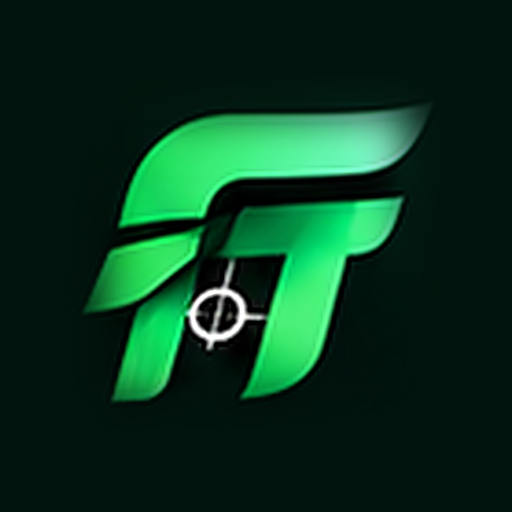
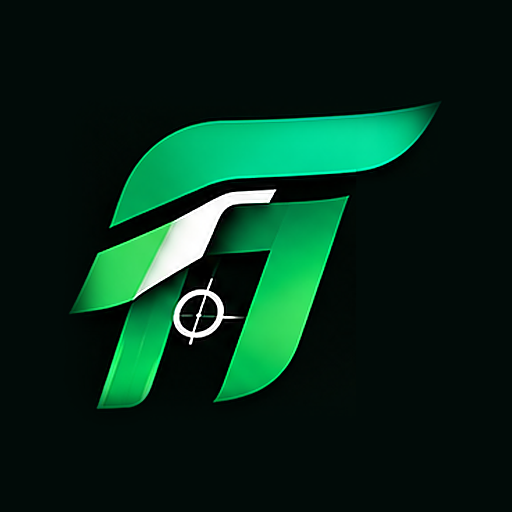
Add files via upload

Changed region(s): [[0.125, 0.1875, 0.875, 0.8125]]

diff --git a/docs/index.html b/docs/index.html
@@ -1,6 +1,6 @@
 <!doctype html><html lang="fr"><head><meta charset="utf-8">
 <meta name="viewport" content="width=device-width,initial-scale=1,viewport-fit=cover">
-<meta name="theme-color" content="#0B0F0E"><link rel="manifest" href="manifest.json">
+<meta name="theme-color" content="#020C08"><link rel="manifest" href="manifest.json">
 <link rel="icon" href="assets/icon-192.png"><link rel="apple-touch-icon" href="assets/icon-192.png"><title>FootTime</title>
 <style>
 :root{--g:#16A34A;--gd:#0F6B38;--k:#0B0F0E;--c:#F7F8F5;--gr:#9CA3AF}
@@ -46,7 +46,25 @@ label{display:block;margin-top:8px;font-size:14px;font-weight:600}
 details{background:#fff;border:1px solid #e5e7eb;border-radius:12px;padding:12px 14px;margin-bottom:8px}summary{font-weight:600;cursor:pointer}
 details p{margin-top:8px;color:#6b7280;font-size:14px;line-height:1.5}
 .final{background:var(--k);color:#fff;border-radius:18px;padding:20px;margin:24px 0 4px;text-align:center}.final p{color:#cbd5d1;margin:8px 0 4px;font-size:14px}
+#splash{position:fixed;inset:0;z-index:99;background:#020C08;display:flex;align-items:center;justify-content:center;flex-direction:column;transition:opacity .5s ease,visibility .5s}
+#splash.out{opacity:0;visibility:hidden}
+.sp{position:relative;overflow:hidden;width:min(74vw,330px)}
+.sp img{width:100%;display:block;animation:pop .8s cubic-bezier(.2,.8,.2,1) both}
+.sh{position:absolute;inset:0;background:linear-gradient(105deg,transparent 38%,rgba(255,255,255,.55) 50%,transparent 62%);mix-blend-mode:overlay;transform:translateX(-130%);animation:sw 1.1s .75s ease-out forwards}
+.ld{width:120px;height:3px;border-radius:2px;background:#16251d;overflow:hidden;margin-top:34px}.ld i{display:block;height:100%;width:0;background:#16A34A;animation:ld 1.8s ease-in-out forwards}
+@keyframes pop{from{opacity:0;transform:scale(.88)}to{opacity:1;transform:scale(1)}}
+@keyframes sw{to{transform:translateX(130%)}}@keyframes ld{to{width:100%}}
+@media(prefers-reduced-motion:reduce){.sp img,.sh,.ld i{animation:none}.ld i{width:100%}.sh{display:none}}
 </style></head><body>
+<div id="splash"><div class="sp"><img src="assets/logo-splash.png" alt="FootTime"><span class="sh"></span></div><div class="ld"><i></i></div></div>
+<script>
+(function(){var s=document.getElementById('splash');if(!s)return;
+var force=/[?&]splash/.test(location.search),on=force||matchMedia('(display-mode: standalone)').matches||navigator.standalone===true;
+try{if(!force&&sessionStorage.getItem('ftSplash'))on=false;sessionStorage.setItem('ftSplash','1')}catch(e){}
+if(!on){s.remove();return}
+setTimeout(function(){s.classList.add('out')},2000);setTimeout(function(){s.remove()},2600)})();
+</script>
+
 <header><img src="assets/logo.png" alt="FootTime"></header>
 <main id="app"></main>
 <nav><button data-v="home" class="on">Accueil</button><button data-v="res">Réservations</button><button data-v="me">Profil</button></nav>

diff --git a/docs/sw.js b/docs/sw.js
@@ -1,4 +1,4 @@
-const C='ft-v1',A=['./','index.html','manifest.json','config.js','assets/logo.png'];
+const C='ft-v1',A=['./','index.html','manifest.json','config.js','assets/logo.png','assets/logo-splash.png'];
 self.addEventListener('install',e=>e.waitUntil(caches.open(C).then(c=>c.addAll(A))));
 self.addEventListener('fetch',e=>{if(e.request.method!=='GET'||new URL(e.request.url).origin!==location.origin)return;
 e.respondWith(fetch(e.request).catch(()=>caches.match(e.request)))});
